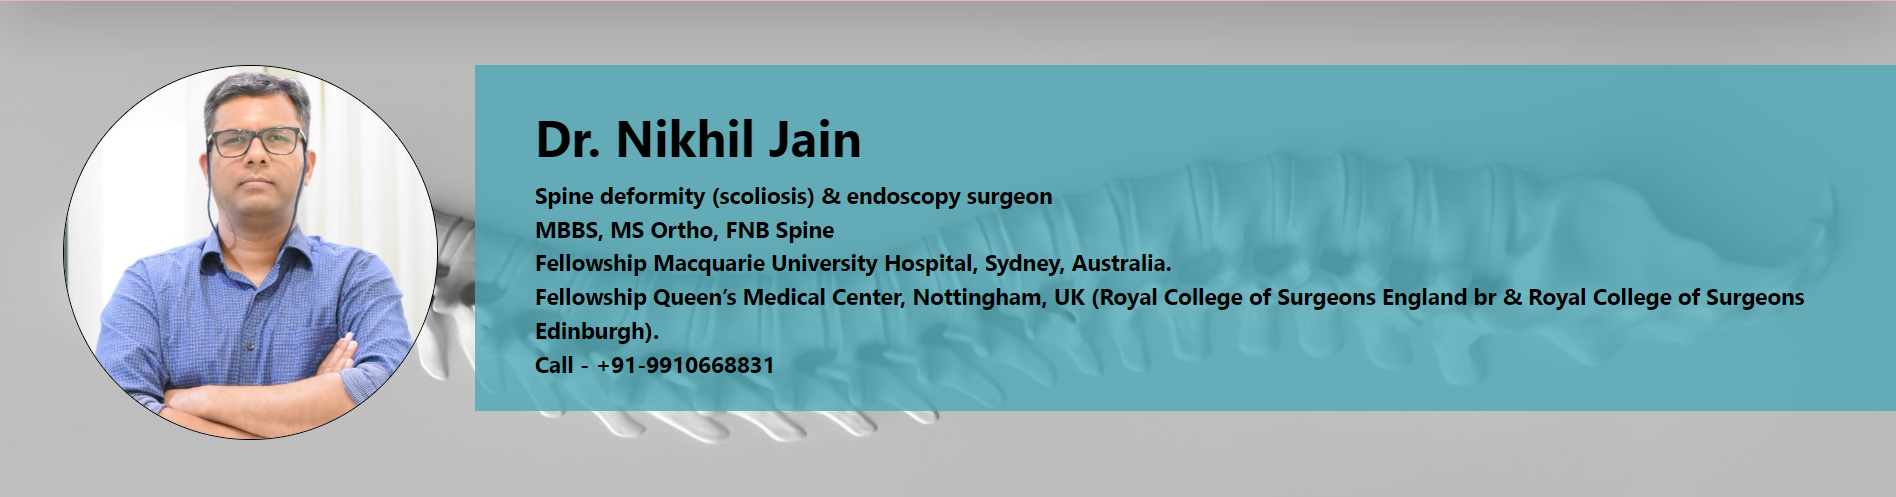
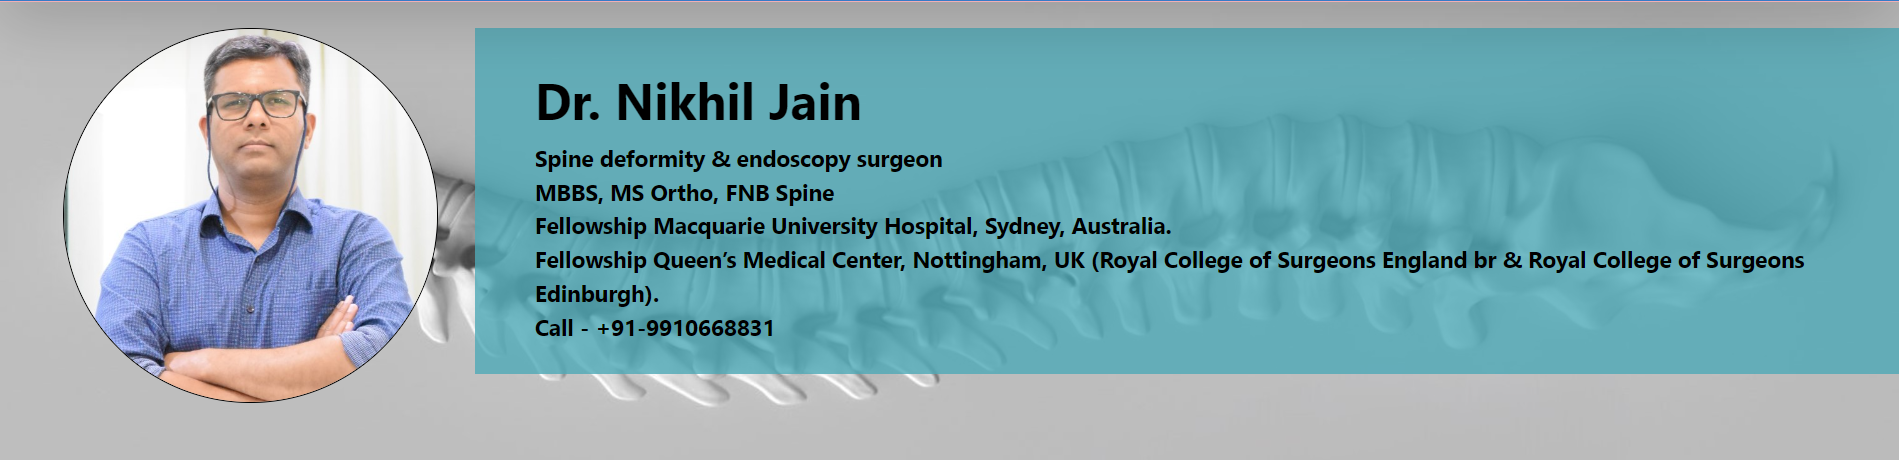
Add files via upload

diff --git a/src/components/mainpage/page.js b/src/components/mainpage/page.js
@@ -39,6 +39,7 @@ export default function home() {
 
       <div id="treatment"></div>
         <br />
+        <br />
         <hr className="mx-5 border-2 mb-5 border-success-subtle"/>
         <div>
           <h1 className="text-center">Conditions Treated</h1>
@@ -48,6 +49,7 @@ export default function home() {
 
 
         <div id="team"></div>
+        <br />
         <br />
         <hr className="mx-5 border-2 mb-5 border-success-subtle"/>
 
@@ -65,6 +67,8 @@ export default function home() {
               <br /> 40 years of experience in general medicine</p>
               <br />
               <br />
+              <br />
+              <br />
               <a href="/drrajesh" class="btn btn-primary">Know more <i className="bi bi-caret-right-fill"></i></a>
             </div>
           </div>
@@ -76,6 +80,8 @@ export default function home() {
                 Consultant Integrative Psychiatrist <br />
                 Lead in Perinatal Mental Health Services <br />
                 MBBS, MD Psychiatry, MRC Psych (UK), PMH-C</p>
+              <a href="http://www.linkedin.com/in/khushboo-kansal-14749252" className="bi-linkedin socials-specific"> </a>
+                <br />
               <a href="/drkhushboo" class="btn btn-primary">Know more <i className="bi bi-caret-right-fill"></i></a>
             </div>
           </div>
@@ -83,16 +89,17 @@ export default function home() {
             <img src={pic} class="card-img-top pt-2" alt="about section 3"/>
             <div class="card-body">
               <h5 class="card-title">Dr. Nikhil Jain</h5>
-              <p class="card-text px-0">Consultant spine deformity & endoscopy surgeon <br /> MBBS, MS Ortho, FNB Spine</p>
+              <p class="card-text px-0">MBBS <br /> MS Ortho, FNB Spine Surgery <br /> Fellowship MUH Hospital, Sydney, Australi <br /> Fellowship QMC, Nottingham, UK</p>
+              <br />
               <a href="https://www.linkedin.com/company/drnikhiljain" className="bi-linkedin socials-specific"> </a>
               <a href="https://www.youtube.com/@Dr.NikhilJain" className="bi-youtube socials-specific"> </a>
-              <br />
               <br />
               <a href="/drnikhil" class="btn btn-primary">Know more <i className="bi bi-caret-right-fill"></i></a>
             </div>
           </div>
         </div>
         <div id="testimonials"></div>
+        <br />
         <br />
         <hr className="mx-5 border-2 mb-5 border-success-subtle"/>
         <div>
@@ -101,6 +108,7 @@ export default function home() {
           <ReviewCarousel/>
         </div>
         <div id="contact"></div>
+        <br />
         <br />
         <hr className="mx-5 border-2 mb-5 border-success-subtle"/>
         <div>

diff --git a/src/components/mainpage/page.css b/src/components/mainpage/page.css
@@ -85,7 +85,7 @@
 }
 
 .carousel-inner{
-  max-height: 650px;
+  max-height: 600px;
 }
 
 .btn {
@@ -110,11 +110,11 @@
   z-index: 20;
 }
 
-.logo {
+/* .logo {
   position: absolute;
   background: linear-gradient(to bottom, rgba(14, 187, 255, 0.3), rgba(96, 255, 117, 0.25));
   color: whitesmoke;
-}
+} */
 
 .col-logo {
   padding-right: 0;

diff --git a/src/components/about/about.css b/src/components/about/about.css
@@ -39,7 +39,7 @@
 }
 
 .row1 {
-  margin-top: 65px;
+  margin-top: 96px;
 }
 
 .custwidth {
